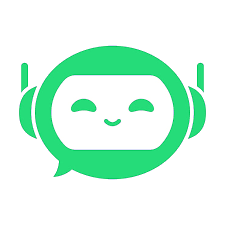
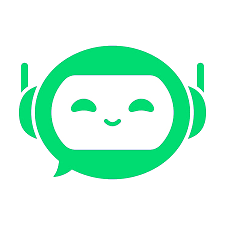
Chat: brighter green bot + working eye blink
- Recolour the bot to the app's bright green (#00E676) so it matches the UI
- Add a real eye-blink on the welcome mascot via a two-frame crossfade
  (open eyes <-> a quick closed-eye frame), every ~4s; same bot design

diff --git a/app/chat/page.tsx b/app/chat/page.tsx
@@ -17,12 +17,15 @@ function AiAvatar({ size = 32 }: { size?: number }) {
   );
 }
 
-// Floating bot mascot for the welcome greeting.
+// Floating, blinking bot mascot for the welcome greeting.
+// Two frames crossfade: eyes open (bot-avatar) and a quick blink (bot-avatar-blink).
 function BotMascot({ size = 104 }: { size?: number }) {
   return (
-    <div style={{ width: size, height: size, flexShrink: 0, animation: "floaty 3.2s ease-in-out infinite", filter: "drop-shadow(0 12px 22px rgba(0,230,118,0.4))" }}>
+    <div style={{ position: "relative", width: size, height: size, flexShrink: 0, animation: "floaty 3.2s ease-in-out infinite", filter: "drop-shadow(0 12px 22px rgba(0,230,118,0.4))" }}>
       {/* eslint-disable-next-line @next/next/no-img-element */}
       <img src="/bot-avatar.png" alt="Arogya Vaani AI" width={size} height={size} style={{ width: "100%", height: "100%", display: "block" }} />
+      {/* eslint-disable-next-line @next/next/no-img-element */}
+      <img src="/bot-avatar-blink.png" alt="" width={size} height={size} style={{ position: "absolute", inset: 0, width: "100%", height: "100%", display: "block", opacity: 0, animation: "botBlink 4s ease-in-out infinite" }} />
     </div>
   );
 }

diff --git a/app/globals.css b/app/globals.css
@@ -58,6 +58,7 @@ body {
 @keyframes spin { to { transform: rotate(360deg); } }
 @keyframes shimmer { 0% { background-position: 200% center; } 100% { background-position: -200% center; } }
 @keyframes floaty { 0%,100% { transform: translateY(0); } 50% { transform: translateY(-8px); } }
+@keyframes botBlink { 0%,90%,100% { opacity: 0; } 93%,96% { opacity: 1; } }
 @keyframes glowpulse { 0%,100% { opacity: 0.45; } 50% { opacity: 1; } }
 @keyframes heartbeat { 0%,100% { box-shadow:0 0 0 0 rgba(0,230,118,0.5);} 50% { box-shadow:0 0 0 6px rgba(0,230,118,0);} }
 
